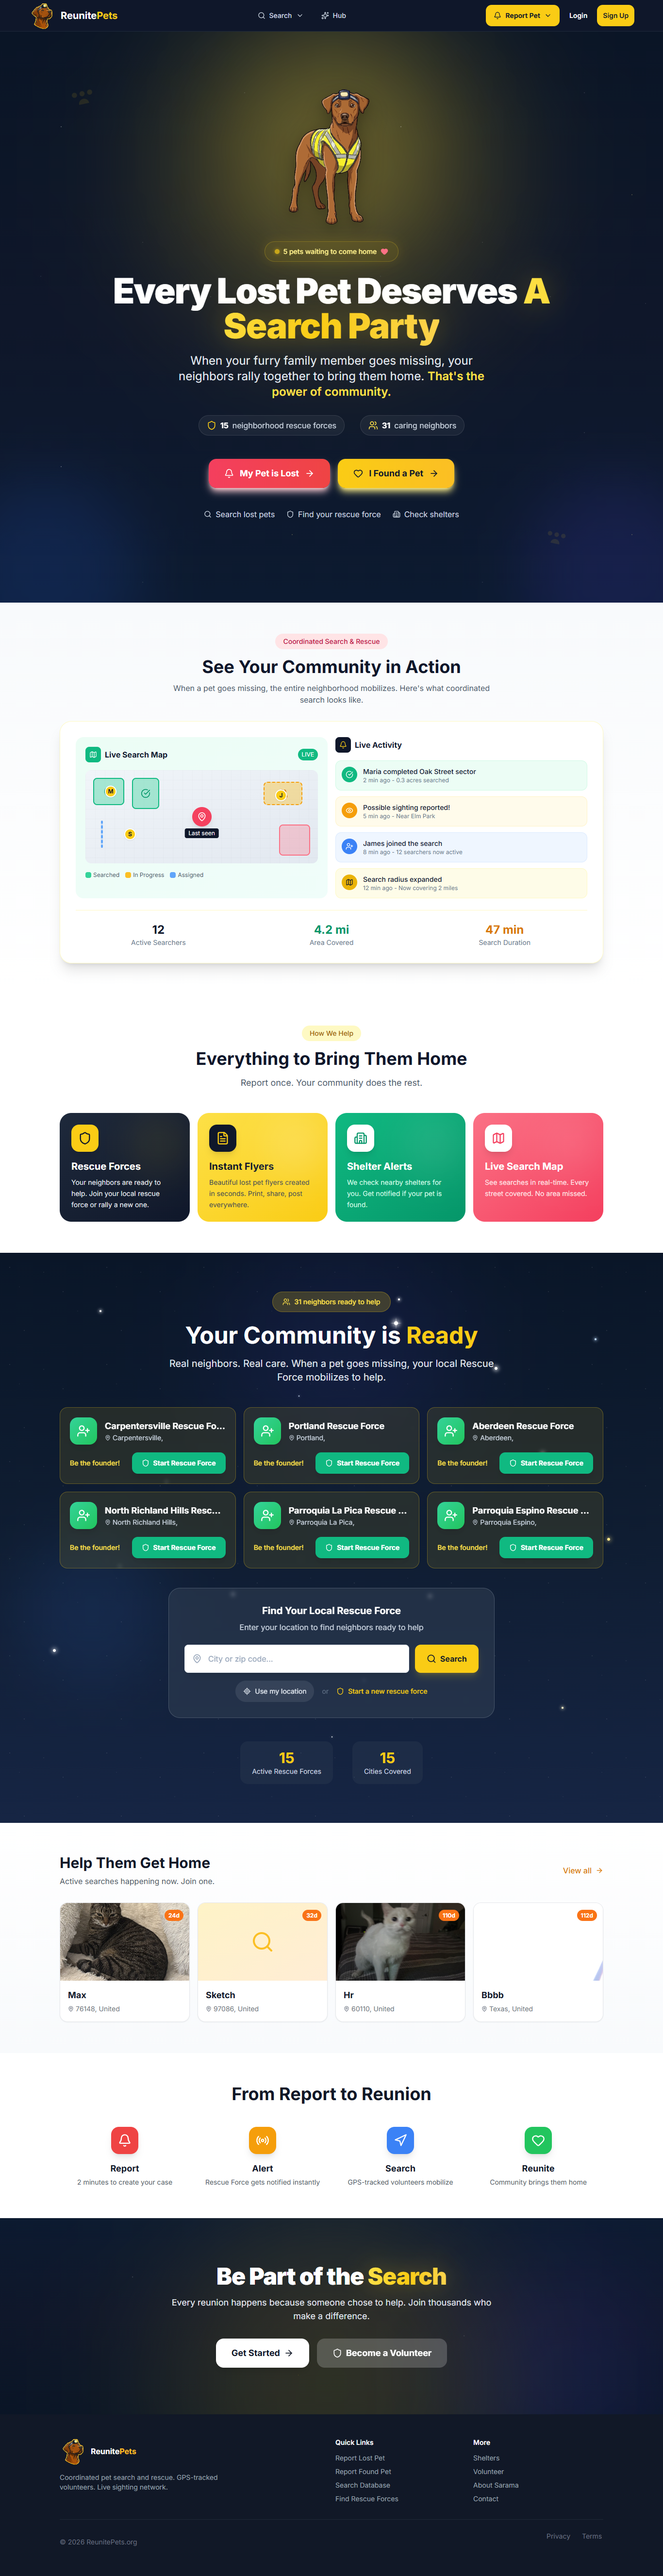
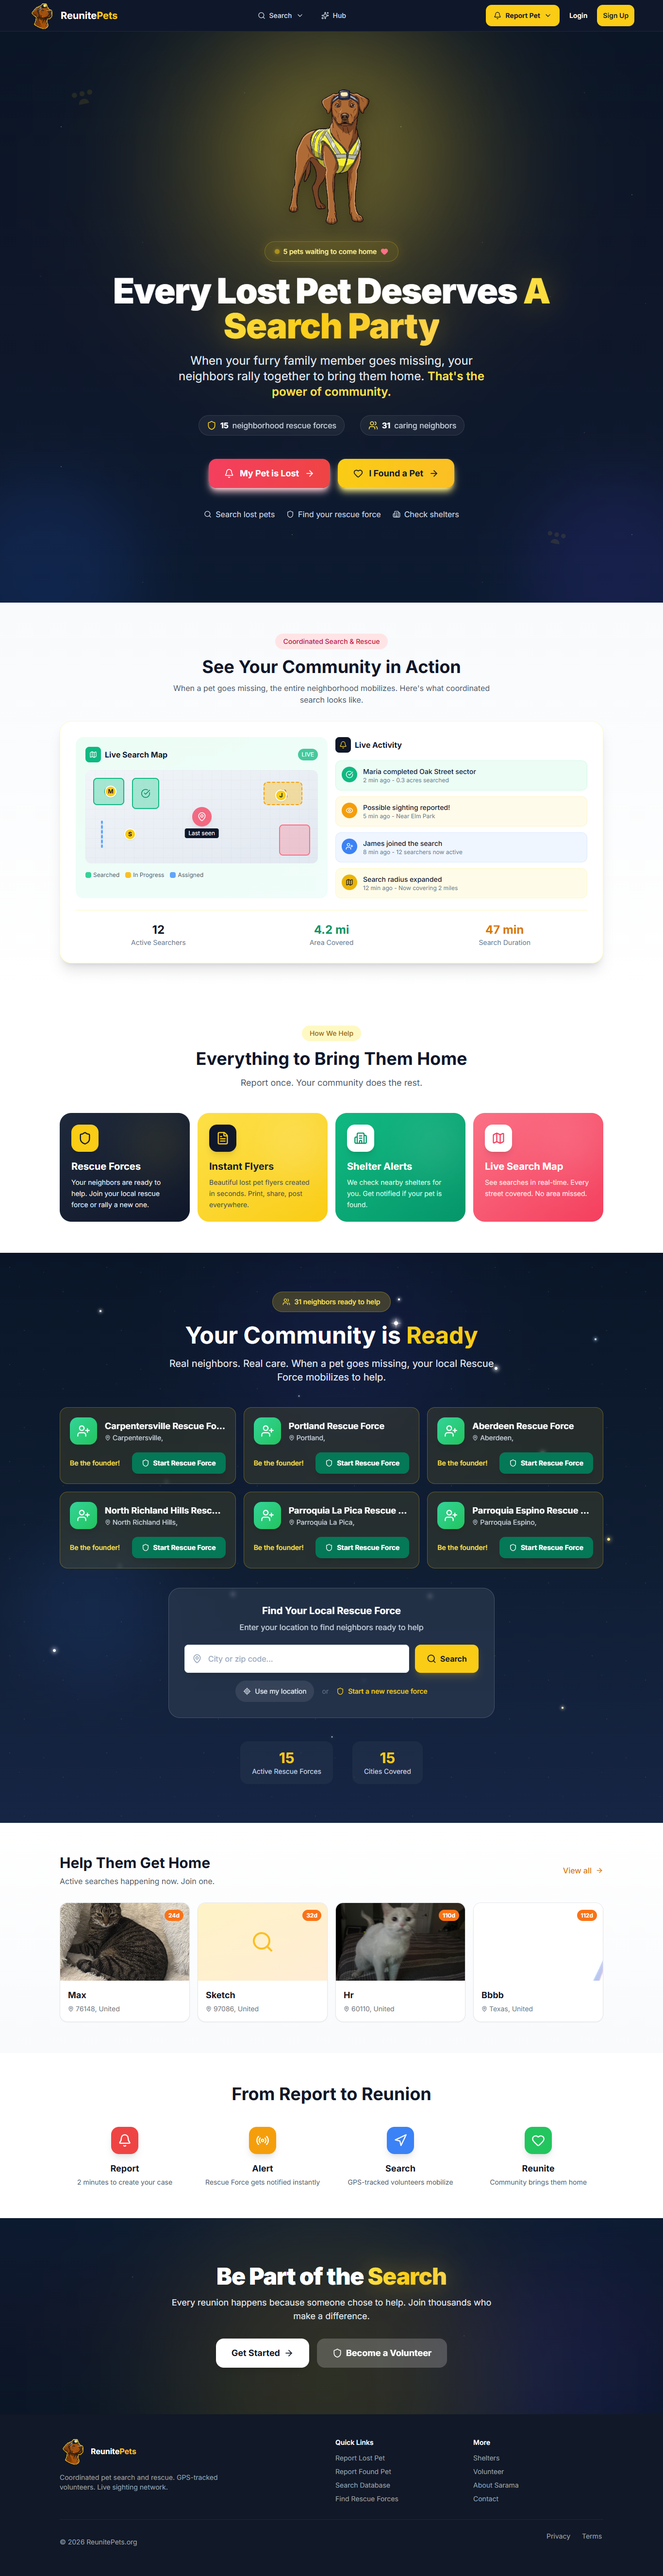
a11y(home): landing now 0 WCAG serious/critical (contrast fixes)
Last contrast misses on the landing, now AA-compliant:
- 'Be the founder' squad-create buttons: white-on-emerald-500 was 2.53:1 ->
  emerald-700/hover-600 (~5.4:1).
- Footer copyright + Privacy/Terms links: gray-500 on the dark footer was
  3.66:1 -> gray-400 (~6:1).
Verified: axe (WCAG2 A/AA) reports 0 serious/critical on / now. The redesigned
landing is both striking and accessible.

Changed region(s): [[0.7379, 0.5598, 0.8917, 0.6221], [0.4612, 0.5598, 0.6149, 0.6221], [0.1845, 0.5598, 0.3382, 0.6221]]

diff --git a/frontend/app/page.js b/frontend/app/page.js
@@ -1093,7 +1093,7 @@ export default function Home() {
                             <button
                               onClick={() => handleCreateSquad(squad)}
                               disabled={creatingSquad === `${squad.city}-${squad.state}`}
-                              className="bg-emerald-500 hover:bg-emerald-400 text-white px-5 py-2.5 rounded-xl font-bold text-sm transition flex items-center gap-2 shadow-lg"
+                              className="bg-emerald-700 hover:bg-emerald-600 text-white px-5 py-2.5 rounded-xl font-bold text-sm transition flex items-center gap-2 shadow-lg"
                             >
                               {creatingSquad === `${squad.city}-${squad.state}` ? (
                                 <Loader2 className="w-4 h-4 animate-spin" />
@@ -1408,7 +1408,7 @@ export default function Home() {
               </ul>
             </div>
           </div>
-          <div className="border-t border-gray-800 pt-6 flex flex-col md:flex-row items-center justify-between gap-4 text-sm text-gray-500">
+          <div className="border-t border-gray-800 pt-6 flex flex-col md:flex-row items-center justify-between gap-4 text-sm text-gray-400">
             <p>© {new Date().getFullYear()} ReunitePets.org</p>
             <div className="flex items-center gap-6">
               <Link href="/privacy" className="hover:text-white transition">Privacy</Link>
